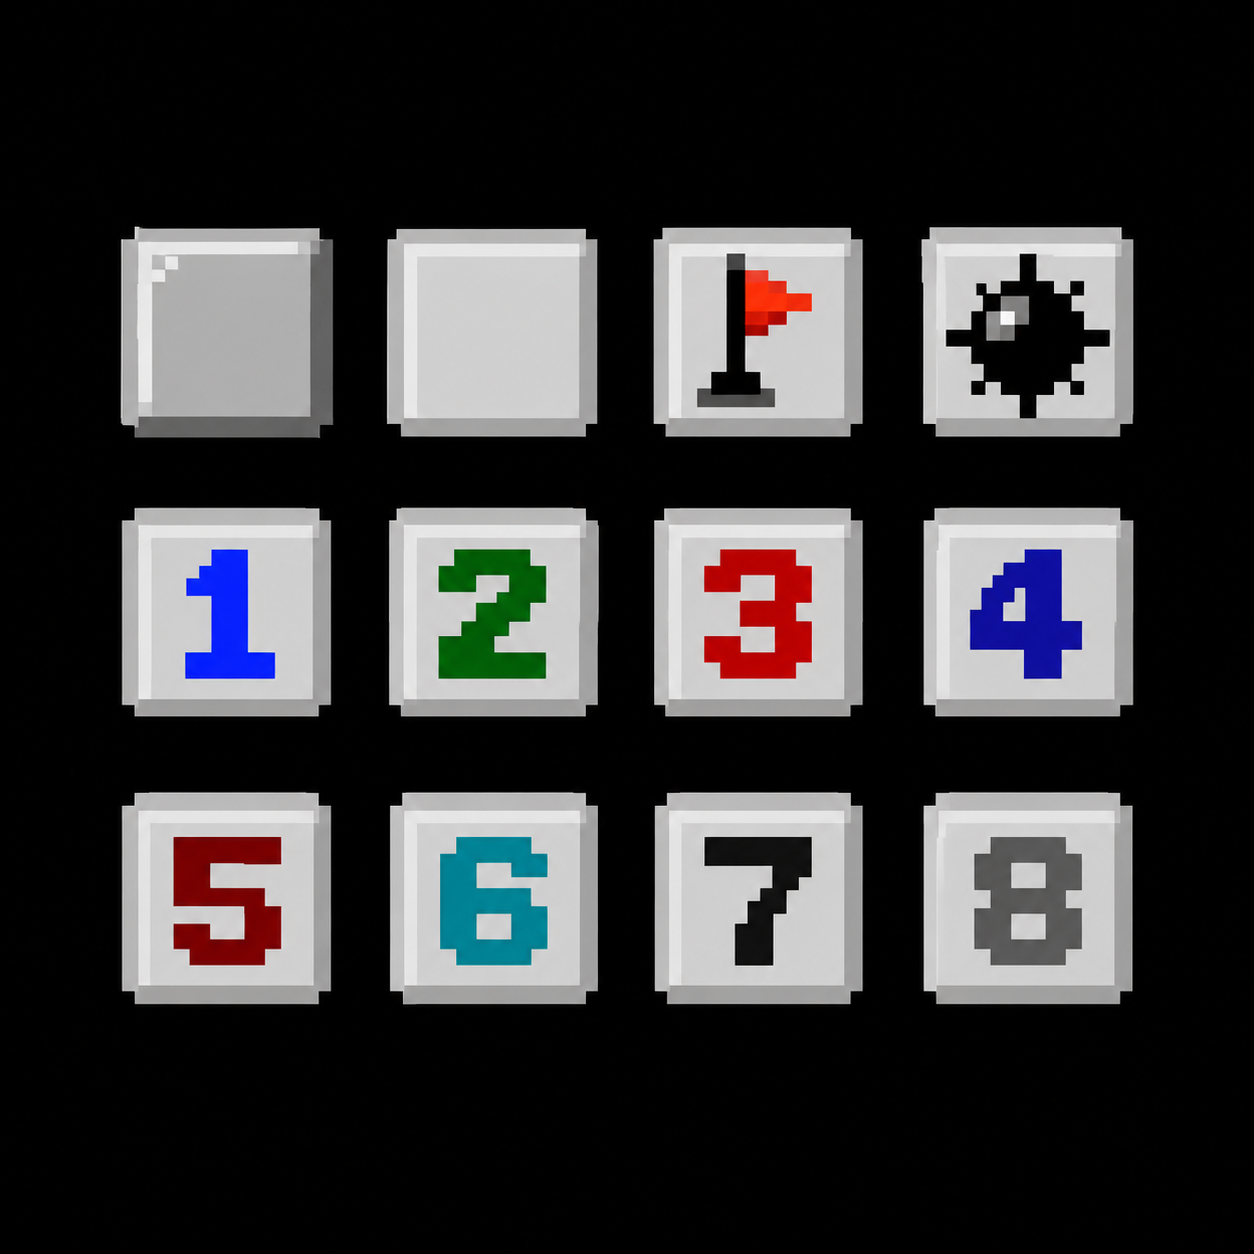
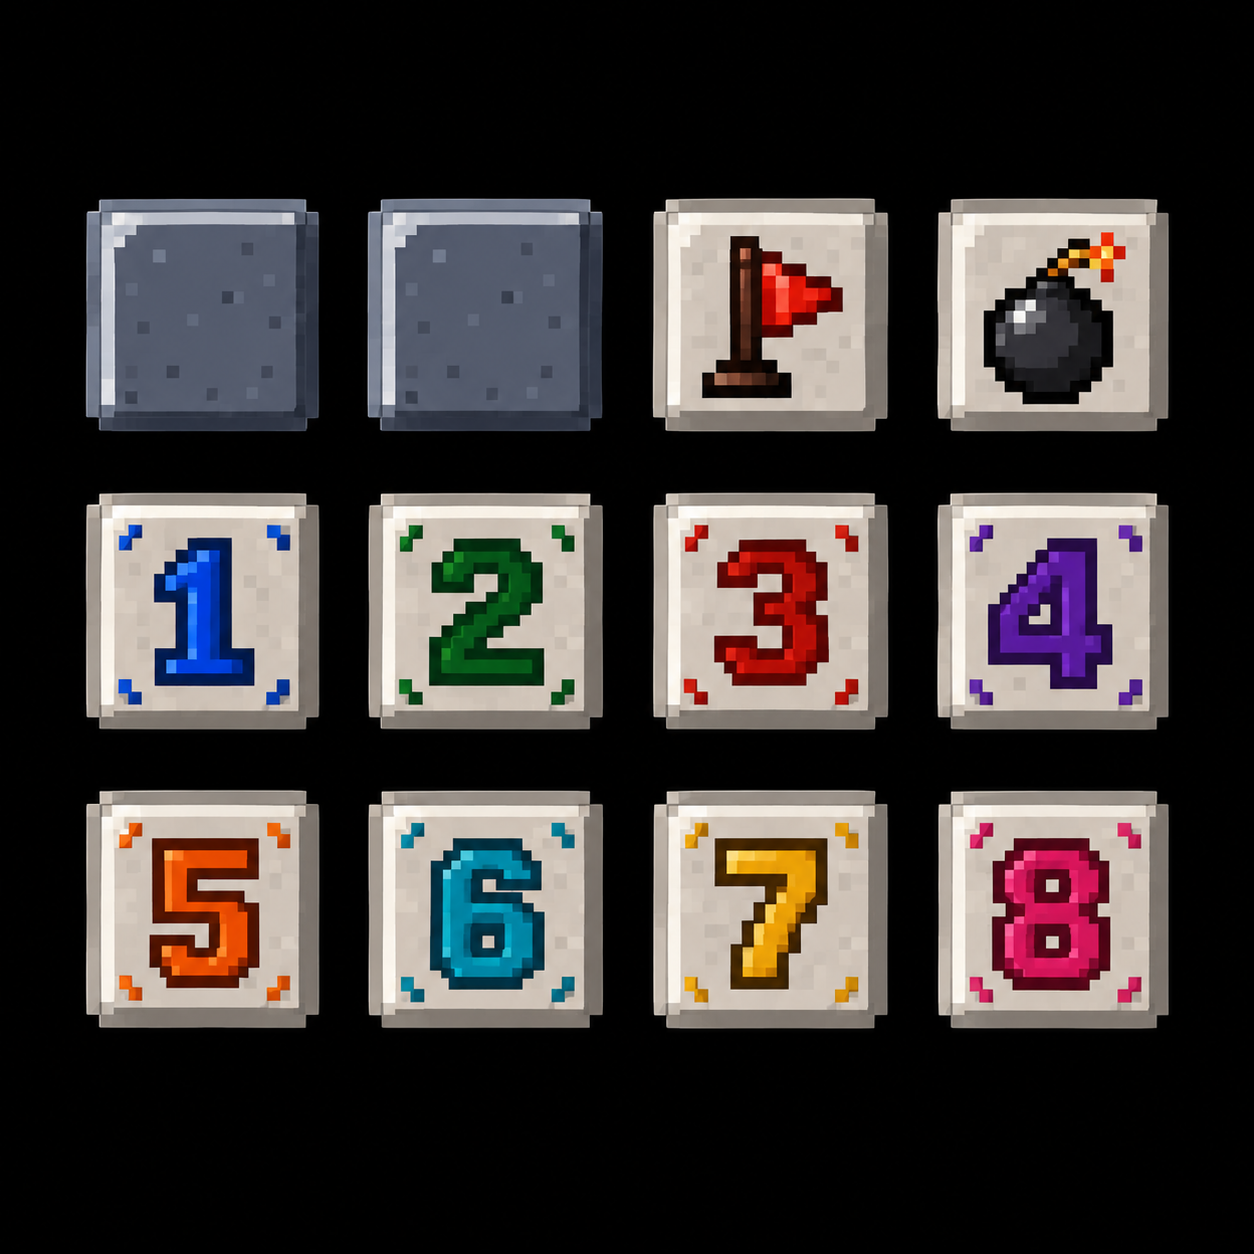
Switch board to the new slate-and-cream tile sheet
Replace the tile source with the new sheet. The slicer now crops each
tile to its own bounds, skips the sheet's spare hidden tile, and builds
the blank dug tile from the flag tile's frame plus a clean patch of its
background texture, since the sheet has no blank tile.

Claude-Session: https://claude.ai/code/session_01Q16XCSEJFnnEGnRBFKcByz

diff --git a/tools/slice_tiles.py b/tools/slice_tiles.py
@@ -1,12 +1,14 @@
 """Cut the tile sheet (assets/tiles-source.png) into individual tile PNGs.
 
-Sheet layout, 4 columns x 3 rows:
-  hidden  open  flag  mine
-  1       2     3     4
-  5       6     7     8
+Sheet layout, 4 columns x 3 rows (the second tile is a spare copy of the
+hidden block and is skipped):
+  hidden  hidden  flag  mine
+  1       2       3     4
+  5       6       7     8
 
-Also derives the extra tiles the game needs: exploded mine (red), wrong flag
-(mine with a red cross) and defused mine (flag on green).
+The sheet has no blank "open" tile, so one is built from the flag tile's
+frame with its face refilled from a clean patch of background. Also derives exploded mine (red), wrong flag (mine with a red cross)
+and defused mine (flag on green).
 
 Usage: python3 tools/slice_tiles.py   (needs Pillow)
 """
@@ -18,7 +20,7 @@ ROOT = Path(__file__).resolve().parent.parent
 SRC = ROOT / 'assets' / 'tiles-source.png'
 OUT = ROOT / 'assets' / 'tiles'
 SIZE = 96
-NAMES = ['hidden', 'open', 'flag', 'mine', '1', '2', '3', '4', '5', '6', '7', '8']
+NAMES = ['hidden', None, 'flag', 'mine', '1', '2', '3', '4', '5', '6', '7', '8']
 
 
 def bright(p):
@@ -42,6 +44,50 @@ def grid_boxes(im):
     cols = [x for x in range(w) if sum(bright(px[x, y]) for y in range(h)) > 50]
     rows = [y for y in range(h) if sum(bright(px[x, y]) for x in range(w)) > 50]
     return find_runs(rows), find_runs(cols)
+
+
+def tight_box(im, box):
+    """Shrink a grid cell to the bounding box of the tile drawn inside it."""
+    left, top, right, bottom = box
+    px = im.load()
+    xs, ys = [], []
+    for y in range(top, bottom + 1):
+        for x in range(left, right + 1):
+            if bright(px[x, y]):
+                xs.append(x)
+                ys.append(y)
+    return (min(xs), min(ys), max(xs) + 1, max(ys) + 1)
+
+
+def plain(c):
+    return max(c[:3]) - min(c[:3]) < 40 and sum(c[:3]) > 450
+
+
+def blank_tile(flag):
+    """Keep the flag tile's frame and refill its face with a clean patch of
+    the same background texture, found by searching the face for a square
+    window with nothing drawn in it."""
+    out = flag.copy()
+    lo, hi = SIZE * 12 // 96, SIZE * 86 // 96  # face inside the bevel
+    px = flag.load()
+    ok = [[plain(px[x, y]) for x in range(SIZE)] for y in range(SIZE)]
+    patch = None
+    for n in (28, 24, 20, 16, 12):
+        for y0 in range(lo + 2, hi - 2 - n):
+            for x0 in range(lo + 2, hi - 2 - n):
+                if all(ok[y][x] for y in range(y0, y0 + n) for x in range(x0, x0 + n)):
+                    patch = flag.crop((x0, y0, x0 + n, y0 + n))
+                    break
+            if patch:
+                break
+        if patch:
+            break
+    assert patch, 'no clean background patch found on the flag tile'
+    for y in range(lo, hi, patch.height):
+        for x in range(lo, hi, patch.width):
+            w, h = min(patch.width, hi - x), min(patch.height, hi - y)
+            out.paste(patch.crop((0, 0, w, h)), (x, y))
+    return out
 
 
 def clear_dark_corners(tile):
@@ -80,10 +126,14 @@ def main():
     i = 0
     for top, bottom in rows:
         for left, right in cols:
-            tile = sheet.crop((left, top, right + 1, bottom + 1))
-            tile = clear_dark_corners(tile.resize((SIZE, SIZE), Image.LANCZOS))
-            tiles[NAMES[i]] = tile
+            name = NAMES[i]
             i += 1
+            if name is None:
+                continue
+            tile = sheet.crop(tight_box(sheet, (left, top, right, bottom)))
+            tiles[name] = clear_dark_corners(tile.resize((SIZE, SIZE), Image.LANCZOS))
+
+    tiles['open'] = blank_tile(tiles['flag'])
 
     tiles['exploded'] = tint_greys(tiles['mine'], (255, 70, 60))
     tiles['defused'] = tint_greys(tiles['flag'], (150, 225, 150))

diff --git a/README.md b/README.md
@@ -62,7 +62,7 @@ test/               node:test unit tests for src/game.js
 
 ## Tuning
 
-- Board tiles: edit `assets/tiles-source.png` (4×3 grid: hidden, open, flag, mine, then 1–8) and run `python3 tools/slice_tiles.py`
+- Board tiles: edit `assets/tiles-source.png` (4×3 grid: hidden, spare hidden, flag, mine, then 1–8; the blank dug tile is generated) and run `python3 tools/slice_tiles.py`
 - Pixel-art icons: the character grids in `src/sprites.js` (one character per pixel)
 - Drop odds: `defaultDropChance` in `src/game.js`
 - Which power-ups show up more often: each one's `weight` in `POWERUPS`
